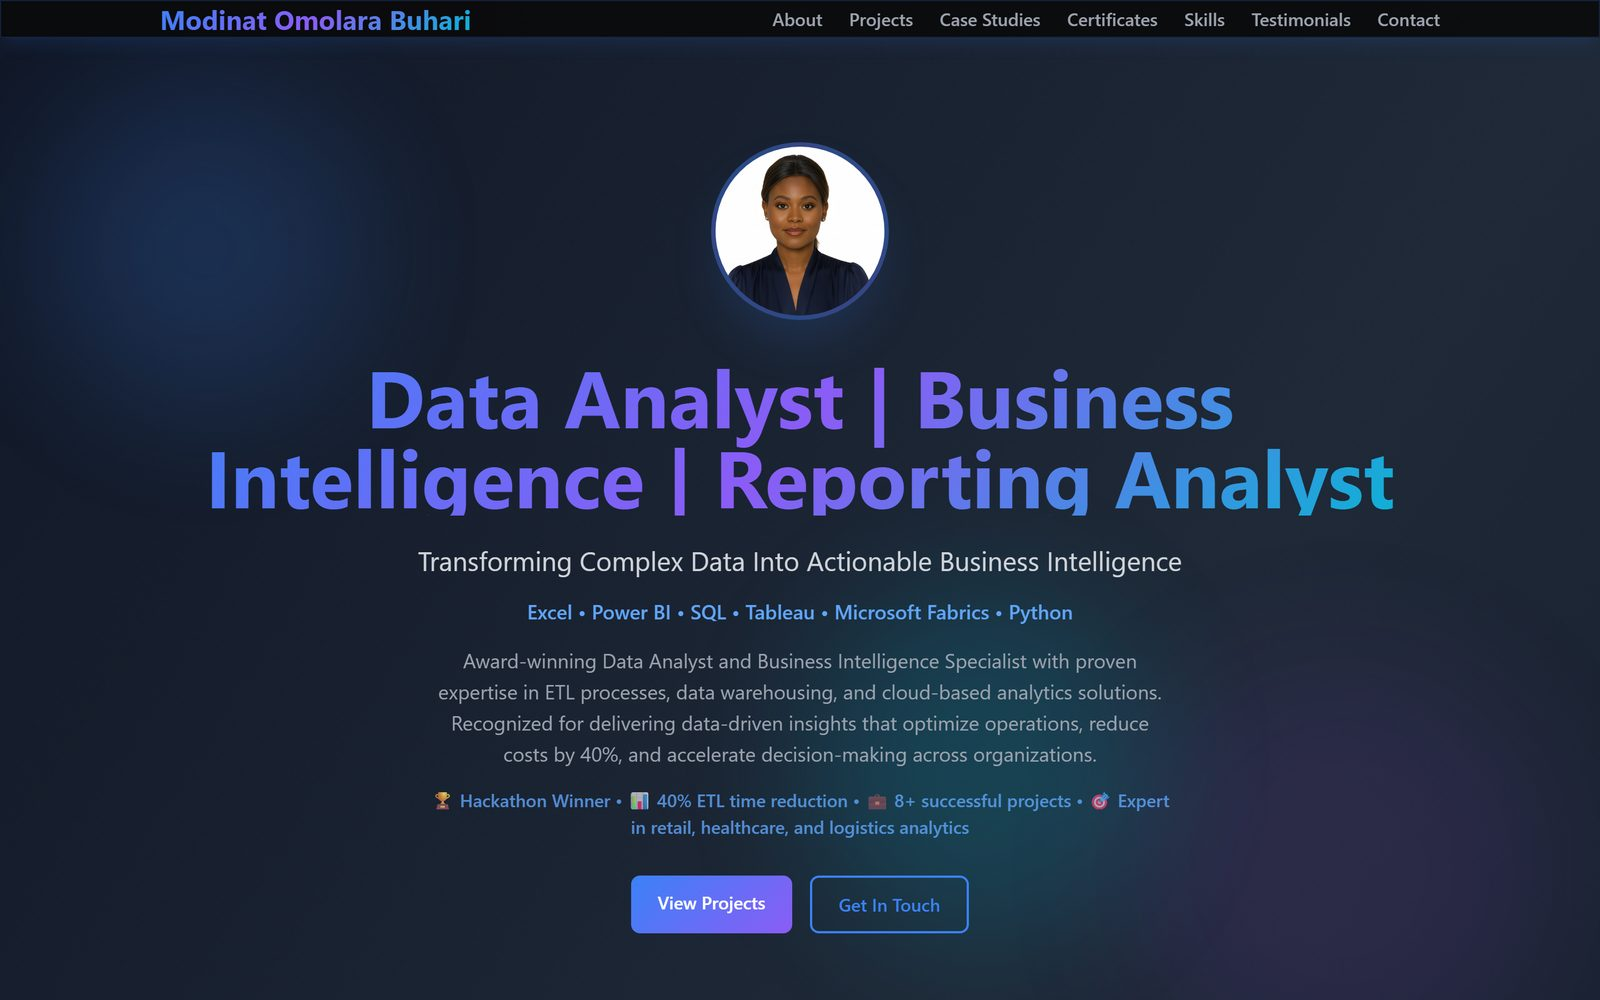
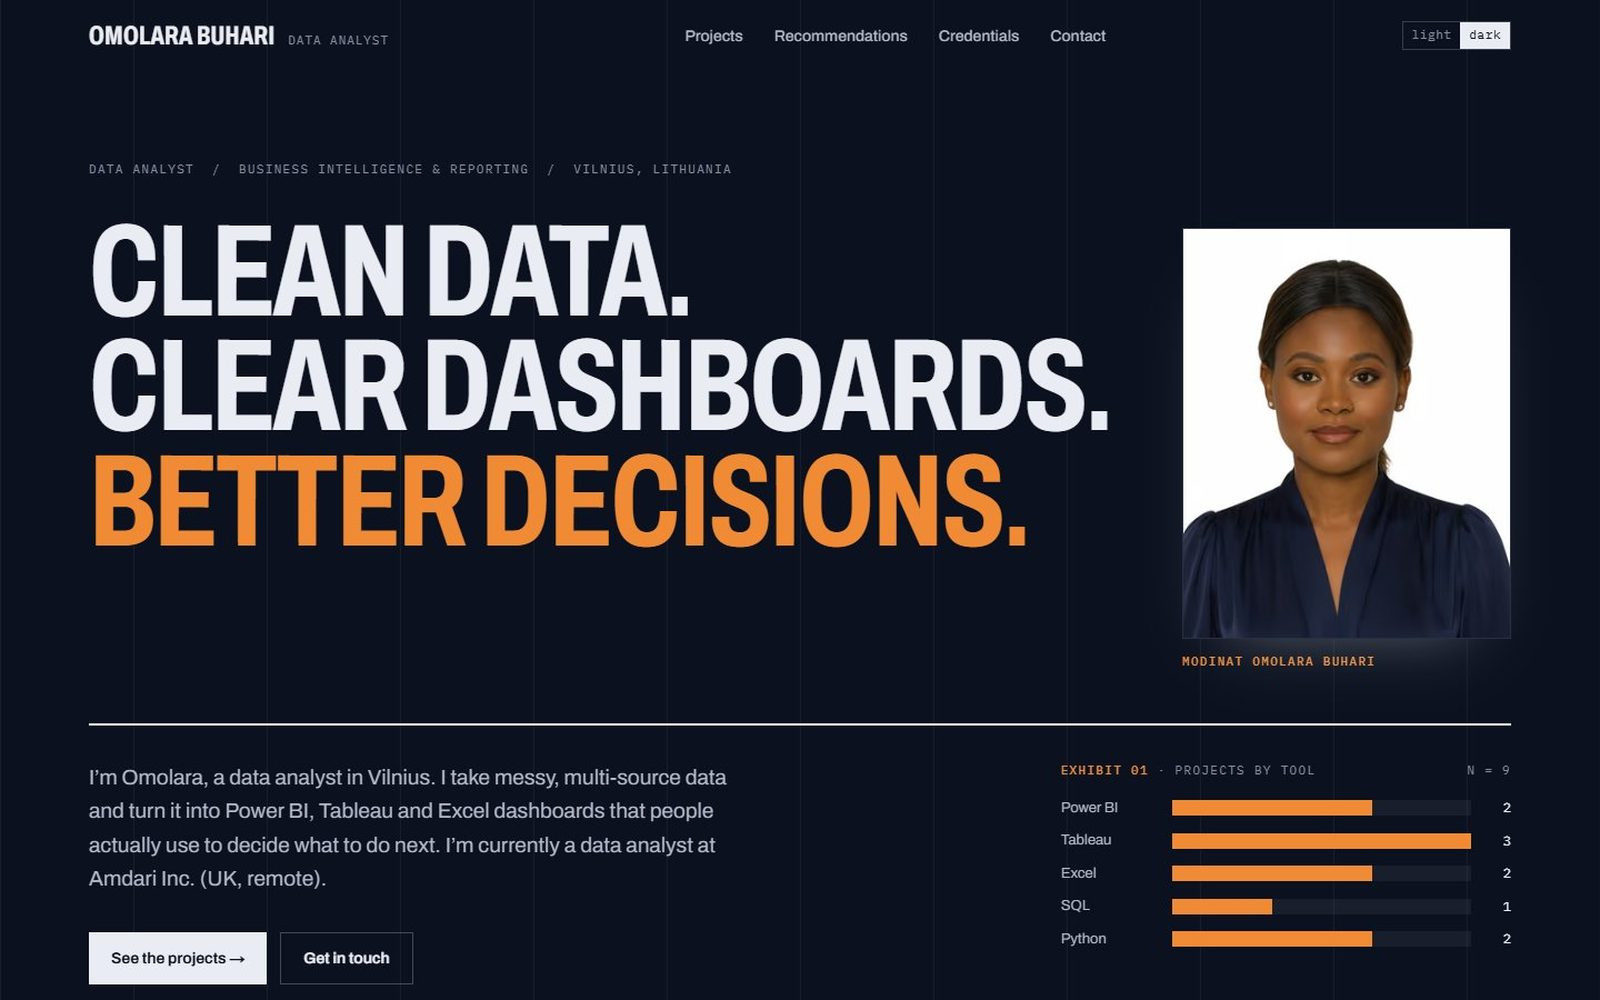
feat: Anton + Space Grotesk, live KSL link, new Modinat screenshot
- Headlines in Anton, body in Space Grotesk, labels in Space Mono
- MT Kenya KSL site is live again: show its link and a fresh screenshot
- Modinat: screenshot of her redesigned site, link to omolarabuhari.com,
  description updated to match

diff --git a/app/layout.tsx b/app/layout.tsx
@@ -1,5 +1,5 @@
 import type { Metadata, Viewport } from 'next';
-import { Inter_Tight, Space_Mono } from 'next/font/google';
+import { Anton, Space_Grotesk, Space_Mono } from 'next/font/google';
 import './globals.css';
 import StructuredData from './components/StructuredData';
 import SiteHeader from './components/SiteHeader';
@@ -9,8 +9,9 @@ import { site } from './lib/content';
 import { Analytics } from '@vercel/analytics/react';
 import { SpeedInsights } from '@vercel/speed-insights/next';
 
-// One grotesk family does both jobs: heavy and tight for poster headlines, regular for reading.
-const grotesk = Inter_Tight({ subsets: ['latin'], variable: '--font-sans', display: 'swap' });
+// Anton for poster headlines, Space Grotesk for reading, Space Mono for labels.
+const display = Anton({ subsets: ['latin'], weight: '400', variable: '--font-display', display: 'swap' });
+const grotesk = Space_Grotesk({ subsets: ['latin'], variable: '--font-sans', display: 'swap' });
 const mono = Space_Mono({ subsets: ['latin'], weight: ['400', '700'], variable: '--font-mono', display: 'swap' });
 
 const description =
@@ -66,7 +67,7 @@ const themeScript = `try{var t=localStorage.getItem('theme');if(t==='light'||t==
 
 export default function RootLayout({ children }: Readonly<{ children: React.ReactNode }>) {
   return (
-    <html lang="en" className={`${grotesk.variable} ${mono.variable}`} suppressHydrationWarning>
+    <html lang="en" className={`${display.variable} ${grotesk.variable} ${mono.variable}`} suppressHydrationWarning>
       <head>
         <script dangerouslySetInnerHTML={{ __html: themeScript }} />
         <StructuredData />

diff --git a/app/lib/content.ts b/app/lib/content.ts
@@ -118,8 +118,8 @@ export const projects: Project[] = [
     tagline: 'Online admissions for a KSL school',
     summary:
       'A serverless admissions portal: applicants upload documents online and both sides receive styled HTML email receipts automatically.',
+    image: '/work/ksl.jpg',
     live: 'https://mt-kenya-sign-language-training-ins.vercel.app/',
-    liveNote: 'Live site currently paused',
     role: 'Full-stack developer',
     timeline: '4 weeks',
     stack: ['HTML', 'CSS', 'JavaScript', 'Node.js', 'Vercel', 'Resend'],
@@ -171,13 +171,16 @@ export const projects: Project[] = [
     year: 'Client',
     tagline: 'Portfolio for a BI analyst',
     summary:
-      'A fast, SEO-ready portfolio for a business-intelligence specialist, with scroll animation and dynamic project showcases.',
+      'An “analyst’s report” portfolio for a data analyst in Vilnius: condensed headlines, navy and burnt orange, and charts of her own work, on her own domain.',
     image: '/work/modinat.jpg',
-    live: 'https://modinat-omolara-buhari-portfolio.vercel.app/',
+    live: 'https://www.omolarabuhari.com/',
     role: 'Designer & developer',
     stack: ['Next.js', 'Tailwind CSS', 'Framer Motion', 'Vercel'],
     challenge: 'Stand out in a crowded field of analyst portfolios.',
-    approach: ['Custom interactive elements instead of a template.', 'Full SEO metadata and mobile-first layout.'],
+    approach: [
+      'A bespoke identity: navy, burnt orange and claret, with condensed Archivo and Plex Mono.',
+      'Every project claim checked against her own certificates and reports before publishing.',
+    ],
   },
 ];
 

diff --git a/app/components/SiteFooter.tsx b/app/components/SiteFooter.tsx
@@ -92,7 +92,7 @@ export default function SiteFooter() {
       <div className="wrap">
         <div className="flex flex-col gap-2 border-t-2 border-ink py-5 font-mono text-[10.5px] font-bold uppercase tracking-[0.08em] text-ink-3 sm:flex-row sm:items-center sm:justify-between">
           <p>© {new Date().getFullYear()} {site.fullName}</p>
-          <p>Set in Inter Tight &amp; Space Mono · Built with Next.js</p>
+          <p>Set in Anton, Space Grotesk &amp; Space Mono · Built with Next.js</p>
         </div>
       </div>
     </footer>

diff --git a/app/globals.css b/app/globals.css
@@ -169,10 +169,12 @@
 }
 
 @layer utilities {
-  /* Heavy and tight like a poster; the extra word space keeps tight letters readable. */
+  /* Anton has one heavy weight and is already condensed, so it needs no fake bold
+     and no negative tracking (the tight letter-spacing utilities were cut for a grotesk). */
   .font-display {
-    font-weight: 800;
-    word-spacing: 0.08em;
+    font-weight: 400;
+    font-synthesis: none;
+    letter-spacing: 0.005em !important;
   }
 
   .tabular {

diff --git a/tailwind.config.js b/tailwind.config.js
@@ -15,7 +15,7 @@ module.exports = {
         bone: token("bone"),
       },
       fontFamily: {
-        display: ["var(--font-sans)", "Arial", "sans-serif"],
+        display: ["var(--font-display)", "Impact", "Arial Narrow", "sans-serif"],
         sans: ["var(--font-sans)", "system-ui", "sans-serif"],
         mono: ["var(--font-mono)", "ui-monospace", "monospace"],
       },
